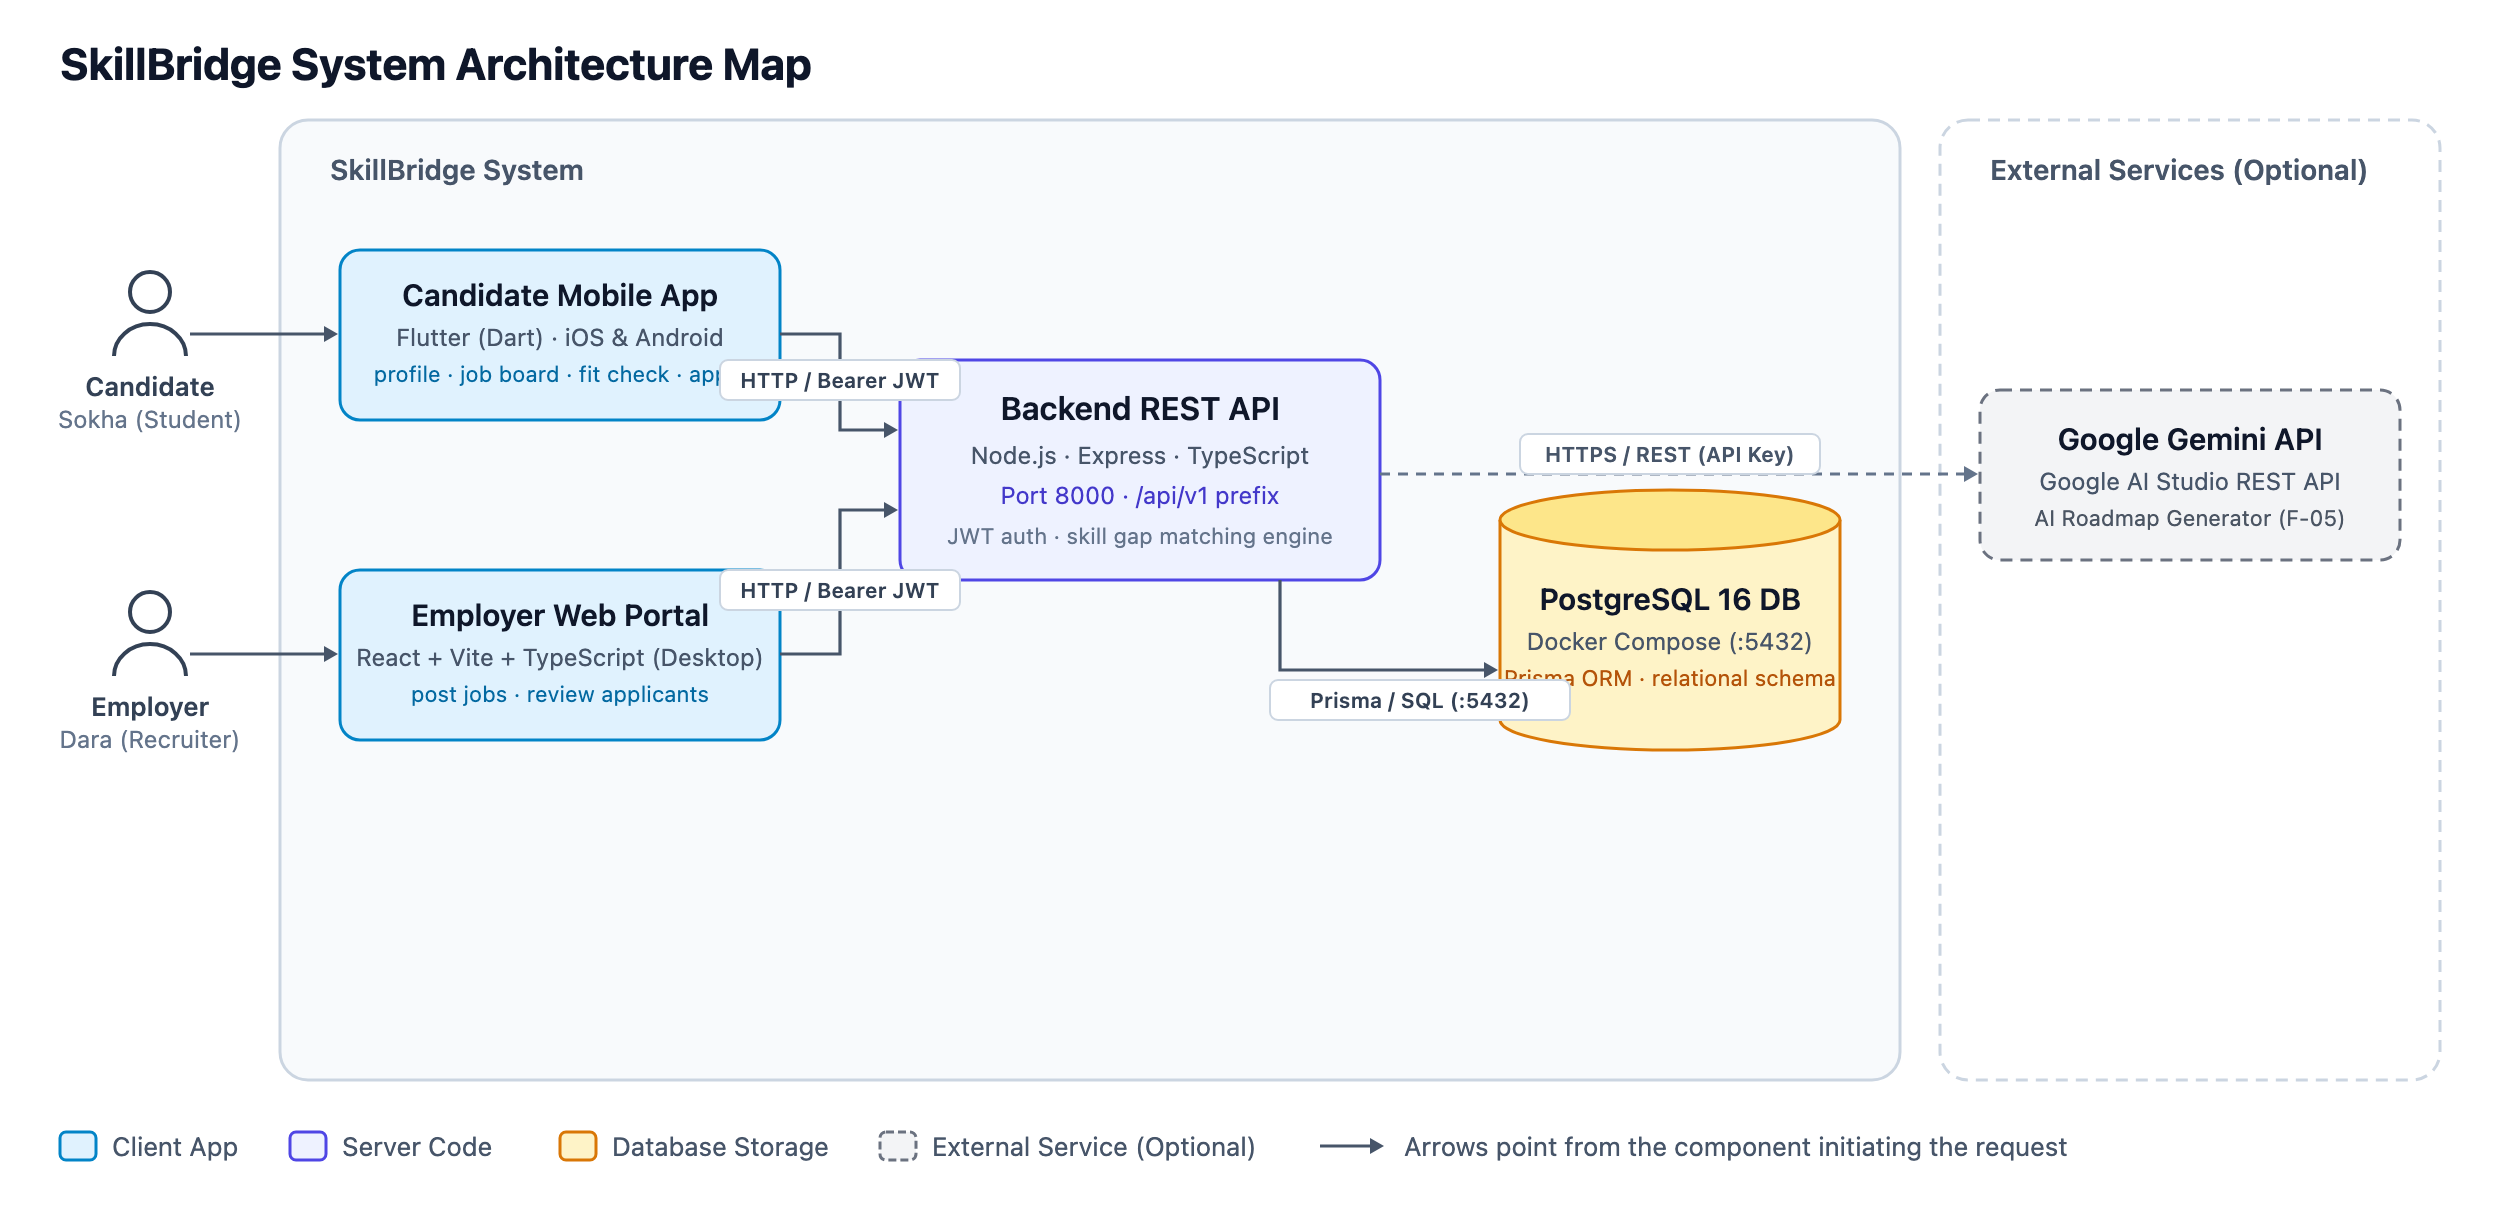
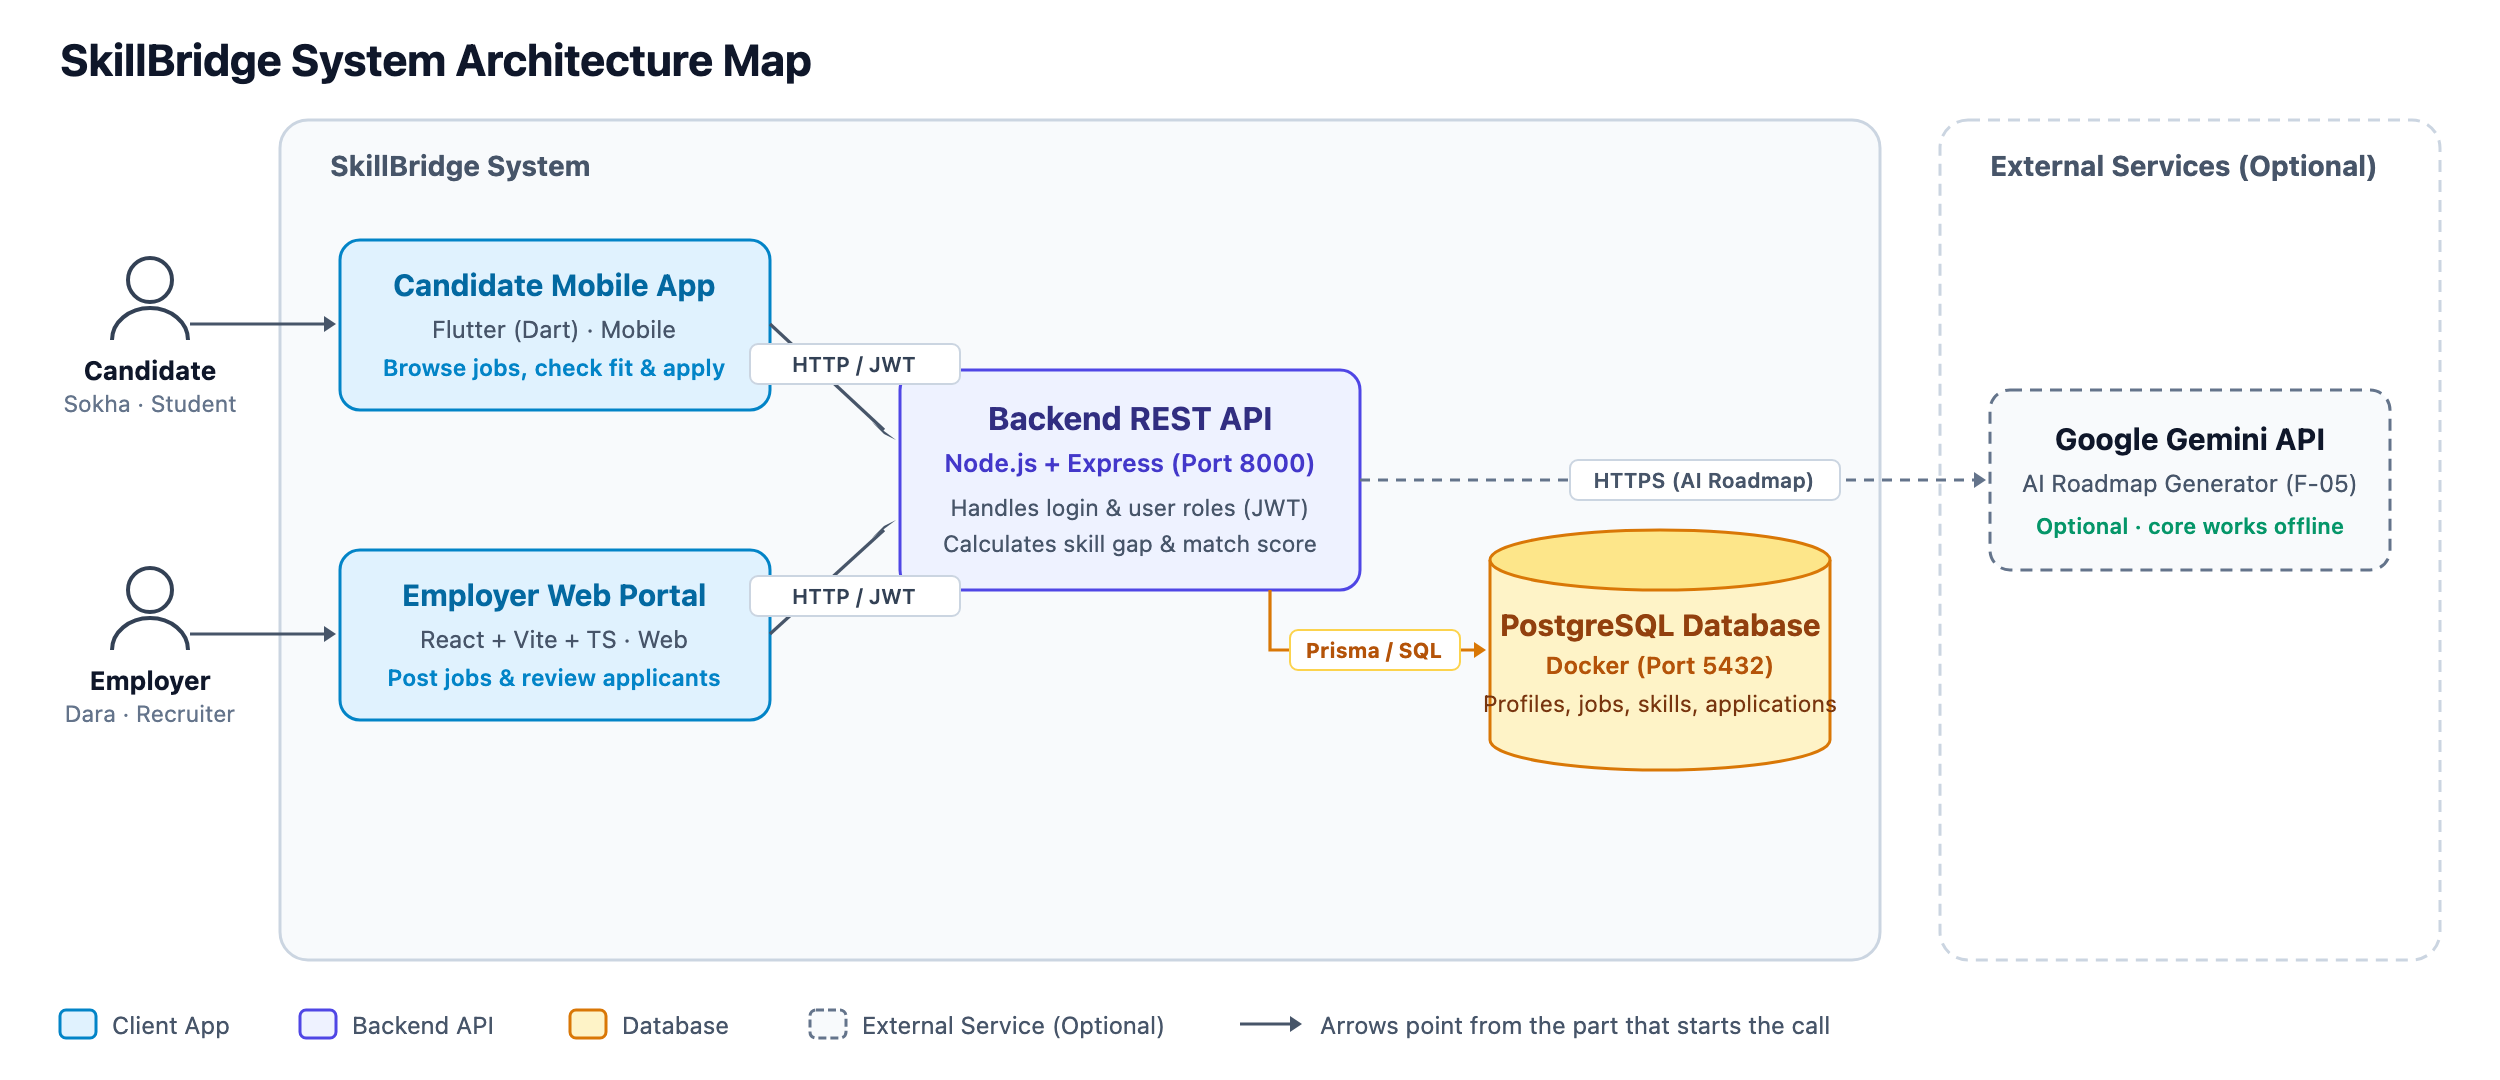
docs: simplify system architecture map for clarity

diff --git a/context/phase-03/02_system_architecture_map.md b/context/phase-03/02_system_architecture_map.md
@@ -11,9 +11,16 @@
 - [x] Every box in the diagram has a row in the component table
 - [x] One Must-Have flow is traced from start to finish, including what happens when a step fails
 
+---
+
 ## 1. High-Level Component Map
 
-The diagram below maps all client applications, backend services, persistent storage, and external integrations in SkillBridge. Both candidate and employer clients communicate with a single unified Node.js/Express REST API over HTTP, which connects directly to the PostgreSQL database via Prisma ORM.
+SkillBridge connects students looking for beginner IT jobs with tech recruiters who need qualified candidates. 
+
+- **Students (Candidates)** use a **Flutter mobile app** on their phones to find beginner jobs, see their skill fit score, and apply.
+- **Recruiters (Employers)** use a **React web portal** on their laptops to post jobs with required skill tags and review applicants.
+- **Both clients talk to one Backend REST API** (Node.js + Express), which checks logins, calculates matching skills, and saves data to a **PostgreSQL database**.
+- **Google Gemini API** is an optional external service used only to suggest personalized study roadmaps when students want to learn missing skills.
 
 ![SkillBridge System Architecture](../assets/architecture.png)
 
@@ -21,56 +28,52 @@ The diagram below maps all client applications, backend services, persistent sto
 <summary>Mermaid Diagram Source</summary>
 
 ```mermaid
-flowchart TD
-    subgraph Clients ["Client Layer"]
-        Mobile["Candidate Mobile App<br/>(Flutter / Dart)"]
-        Web["Employer Web Portal<br/>(React / Vite / TypeScript)"]
-    end
+flowchart LR
+    Candidate(["Candidate<br/>(Student)"]) -->|"uses"| Mobile["Candidate Mobile App<br/>(Flutter / Dart)"]
+    Employer(["Employer<br/>(Recruiter)"]) -->|"uses"| Web["Employer Web Portal<br/>(React / TypeScript)"]
 
-    subgraph Server ["Application Layer"]
-        API["Backend REST API<br/>(Node.js / Express / TypeScript)<br/>Port 8000 · Prefix: /api/v1"]
-    end
+    Mobile -->|"HTTP / JWT"| API["Backend REST API<br/>(Node.js / Express :8000)"]
+    Web -->|"HTTP / JWT"| API
 
-    subgraph Data ["Data Layer"]
-        DB[("PostgreSQL 16 Database<br/>(Docker Compose / Prisma ORM)<br/>Port 5432")]
-    end
-
-    subgraph External ["External Services Layer (Optional / Could-Have)"]
-        Gemini["Google Gemini API<br/>(AI Roadmap Generator — F-05)"]
-    end
-
-    Mobile -->|"HTTP / REST (JSON)<br/>Bearer JWT Auth"| API
-    Web -->|"HTTP / REST (JSON)<br/>Bearer JWT Auth"| API
-    API -->|"Prisma Client (TCP :5432)<br/>SQL Queries & Migrations"| DB
-    API -.->|"HTTPS / REST (JSON)<br/>API Key Auth (F-05)"| Gemini
+    API -->|"Prisma / SQL"| DB[("PostgreSQL Database<br/>(Docker :5432)")]
+    API -.->|"HTTPS (Optional)"| Gemini["Google Gemini API<br/>(AI Study Roadmap)"]
 ```
 
 </details>
 
+---
+
 ## 2. Components
+
+Every box in the architecture diagram is described below:
 
 | Component | Responsibility | Technology | Runs when | Talks to |
 |---|---|---|---|---|
-| **Candidate Mobile App** | Candidate client UI for authentication, Student Profile management (skills, projects), browsing curated Job Listings, triggering automated Skill Gap analysis, bookmarking jobs, viewing Preparation Hub guides, and submitting Job Applications. | Flutter (v3.41.x) with Dart | On-demand on candidate mobile device or Android/iOS emulator | Backend REST API (via HTTP/REST) |
-| **Employer Web Portal** | Recruiter desktop UI for employer authentication, company profile management, publishing and managing entry-level Job Listings with explicit skill requirements, and reviewing student applicants with their calculated skill match scores. | React (v18.x) + Vite + TypeScript (v5.x) | On-demand in desktop web browser | Backend REST API (via HTTP/REST) |
-| **Backend REST API** | Central application controller. Handles route dispatching (`/api/v1`), JWT authentication and role-based authorization (`CANDIDATE` vs `EMPLOYER`), input validation, business logic (Skill Gap comparison engine), and database operations. | Node.js (v22.x), Express (v4.x), TypeScript (v5.x) | Continuously as a daemon on port 8000 | PostgreSQL 16 Database (via Prisma ORM), Google Gemini API |
-| **PostgreSQL 16 Database** | Persistent relational storage for user accounts, candidate profiles, skills, company profiles, job listings, bookmarks, and job applications. | PostgreSQL 16 via Docker Compose container | Continuously in Docker background (`docker compose up -d`) on port 5432 | Backend REST API (Prisma Client) |
-| **Google Gemini API** | Generates dynamic, step-by-step AI Learning Roadmaps for students seeking to bridge identified skill gaps (Could-Have feature F-05). | Google AI Studio REST API | Triggered on-demand when student requests an AI roadmap | Backend REST API only |
+| **Candidate Mobile App** | Mobile screen where students create their profile, pick their skills, browse beginner jobs, see their skill match percentage, and tap "Apply". | Flutter (v3.41.x) with Dart | When a student opens the app on their phone or emulator | Backend REST API (HTTP requests) |
+| **Employer Web Portal** | Desktop web dashboard where recruiters log in, create company profiles, post job openings with required skill tags, and review student applicants. | React (v18.x) + Vite + TypeScript | When a recruiter opens the web portal in their browser | Backend REST API (HTTP requests) |
+| **Backend REST API** | The central brain. Validates logins (JWT), checks permissions, calculates skill gaps (comparing student skills vs job requirements), and saves records. | Node.js (v22.x) with Express (v4.x) & TypeScript | Continuously running on port 8000 (`http://localhost:8000/api/v1`) | PostgreSQL Database (via Prisma ORM), Google Gemini API |
+| **PostgreSQL Database** | Stores all app data: user logins, student profiles, company profiles, job listings, skills list, and job applications. | PostgreSQL 16 (via Docker Compose) | Continuously in Docker on port 5432 | Backend REST API only |
+| **Google Gemini API** | Generates step-by-step study recommendations for missing skills (Could-Have feature F-05). | Google AI Studio REST API | Only when a student taps "Generate Study Roadmap" | Backend REST API only (server-to-server) |
 
-### Secrets & Database Access Security Policy
+### Secrets & Database Security Policy
 
-All secrets (including database connection string `DATABASE_URL`, JWT signing key `JWT_SECRET`, port configuration `PORT`, and optional `GEMINI_API_KEY`) reside exclusively in a server-side, git-ignored `.env` file on the backend host. Only the Backend REST API has network access and credentials to directly reach the PostgreSQL database container over port 5432. Neither the Flutter mobile app nor the React web portal has database credentials or direct database connections; every client interaction must authenticate through the backend's `/api/v1` REST endpoints.
+- **Where secrets live:** All sensitive keys (the database password `DATABASE_URL`, token key `JWT_SECRET`, and optional `GEMINI_API_KEY`) live only in a `.env` file on the backend server. This file is git-ignored and never shared with the frontend apps or committed to Git.
+- **Who can reach the database:** Only the Backend REST API can connect directly to PostgreSQL. The Flutter mobile app and React web portal can never touch the database directly; they must send an authorized HTTP request to the backend.
+
+---
 
 ## 3. Flow Trace
 
-Flow traced: **Candidate Applies to a Job with Automated Skill Fit Verification (Serving F-03, F-06, and UJ-07)**
+Flow traced: **Candidate Applies to a Job with Skill Fit Check (Serving F-03, F-06, and UJ-07)**
 
-| Step | Where | What happens |
-|---|---|---|
-| 1 | Candidate Mobile App | Sokha views a Job Listing with matching and missing skills and taps the **"Apply Now"** button. The app reads the stored JWT token and issues an HTTP request: `POST /api/v1/jobs/:id/apply` with header `Authorization: Bearer <token>`. |
-| 2 | Backend REST API (Auth Middleware) | The API intercepts the request, decodes and verifies the JWT signature against `JWT_SECRET`, and verifies that the user role is `CANDIDATE`. *Failure case:* If the token is missing or expired, the API immediately responds with `401 UNAUTHORIZED`. If the user has an `EMPLOYER` role, it responds with `403 FORBIDDEN`. |
-| 3 | Backend REST API (Validation & Duplicate Check) | The API queries the database to ensure the Job Listing exists and is active. It also queries the `JobApplication` table for any existing record with `student_id = current_user.id` and `job_listing_id = :id`. *Failure case:* If the job does not exist, the API returns `404 NOT_FOUND`. If an application already exists, the API returns `409 CONFLICT` (`{"error": {"code": "ALREADY_APPLIED", "message": "You have already applied for this job listing"}}`). |
-| 4 | Backend REST API (Skill Gap Calculation Engine) | The API retrieves the candidate's skills from `StudentProfile` and compares them with the job's required skills from `JobListing`. It computes the matching skill count, missing skill list (Skill Gap), and match score percentage (`match_percentage = (matched_skills / total_required_skills) * 100`). |
-| 5 | PostgreSQL Database (Prisma ORM) | The API opens a transaction and creates a new `JobApplication` record with `student_id`, `job_listing_id`, `match_score`, `status = "SUBMITTED"`, and timestamps. The record is committed. *Failure case:* If the database connection drops or a constraint fails, the transaction rolls back and the API returns `500 SERVER_ERROR`. |
-| 6 | Backend REST API → Mobile App | The API sends an HTTP `201 CREATED` response containing the created application payload: `{"id": "...", "status": "SUBMITTED", "matchScore": 80, "appliedAt": "2026-11-03T..."}`. |
-| 7 | Candidate Mobile App | The Flutter mobile app receives the `201 CREATED` response, updates the job details screen state by switching the "Apply Now" button to a disabled "Applied" state, and presents a success confirmation snackbar to the candidate. *Failure handling:* On network error or any HTTP error status (400, 401, 409, 500), the app displays a clear user-facing error message and leaves the button operable or in its accurate current state. |
+This trace follows what happens from the moment student Sokha taps "Apply Now" on his phone until the application is saved and confirmed.
+
+| Step | Where | What happens | What if something fails? |
+|---|---|---|---|
+| **1. User taps Apply** | Candidate Mobile App | Sokha views a job listing and taps **"Apply Now"**. The app sends an HTTP request: `POST /api/v1/jobs/:id/apply` with his login token (`Authorization: Bearer <token>`). | If phone has no internet: App shows *"No internet connection. Please try again."* Button remains active. |
+| **2. Check Login & Role** | Backend REST API | Express checks the token. It confirms that the token is valid, has not expired, and belongs to a `CANDIDATE` (not an Employer). | • If token missing/expired: Returns `401 UNAUTHORIZED`. App sends student to login screen.<br/>• If user is an Employer: Returns `403 FORBIDDEN`. |
+| **3. Check Job & Duplicate** | Backend REST API | Checks that the job exists and is still open. Then checks if Sokha has already applied to this job before. | • If job not found: Returns `404 NOT_FOUND`.<br/>• If already applied: Returns `409 CONFLICT`. App changes button to *"Already Applied"*. |
+| **4. Calculate Skill Fit** | Backend REST API | Compares Sokha's skills to the job's required skills:<br/>1. Find matching skills (e.g. JavaScript, Git).<br/>2. Find missing skills (Skill Gap, e.g. Docker).<br/>3. Calculate fit score (e.g. 2 out of 3 skills = 66%). | If student has no skills on profile: Returns `400 VALIDATION_ERROR` (*"Please add skills to your profile first"*). |
+| **5. Save Application** | PostgreSQL Database | Backend writes a new row into `job_applications` with `student_id`, `job_id`, `match_score`, and status `"SUBMITTED"`. | If database is down: Transaction cancels, backend returns `500 SERVER_ERROR`. No bad data is saved. |
+| **6. Send Confirmation** | Backend → Mobile App | Backend returns HTTP `201 CREATED` with application details (`id`, `match_score: 66`, `status: "SUBMITTED"`). | Handled by standard HTTP response. |
+| **7. Update Screen** | Candidate Mobile App | The mobile app switches the "Apply Now" button to a disabled **"Applied"** checkmark and shows a green success message: *"Application submitted successfully!"* | If any error occurred, button stays clickable and a friendly error message is shown. |
